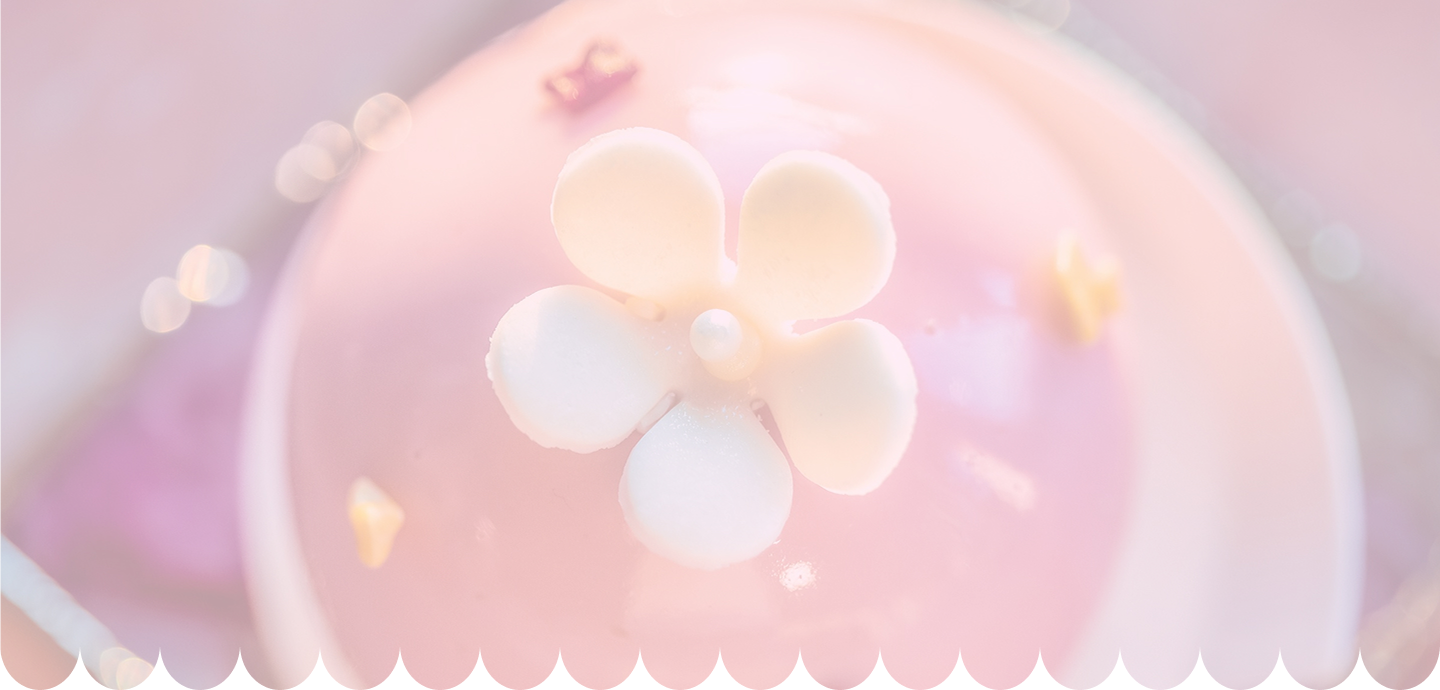
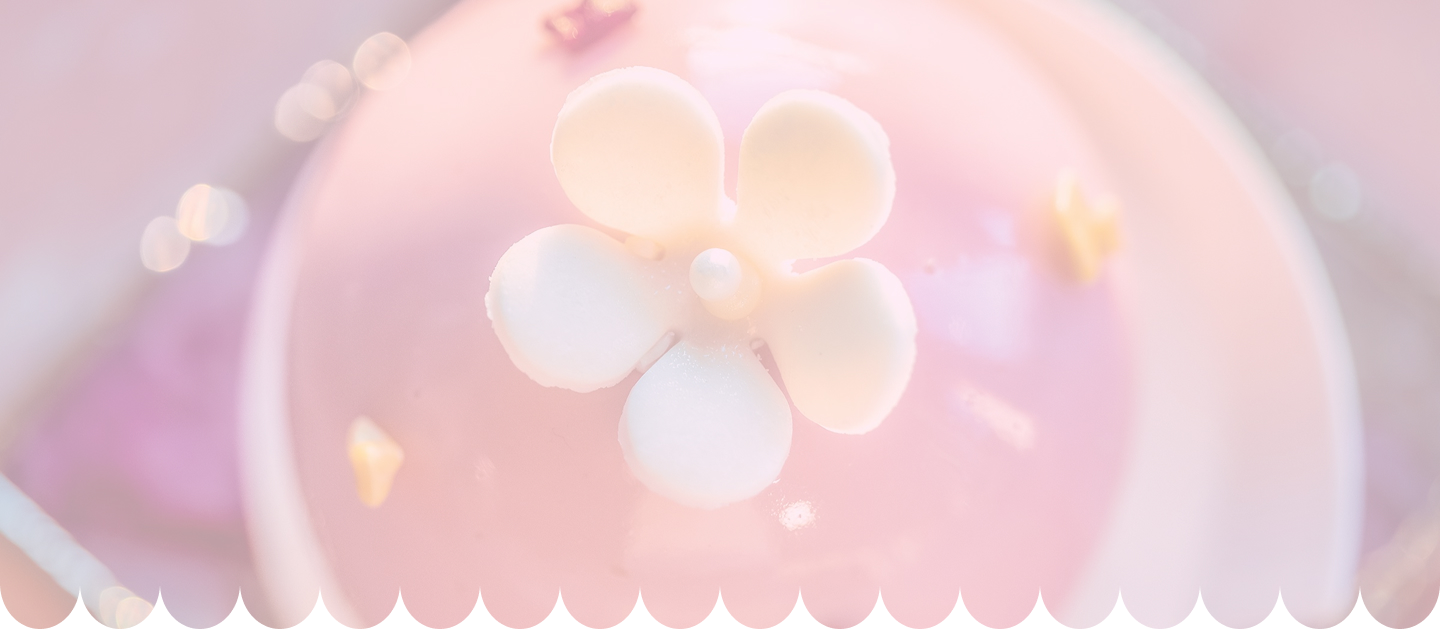
fixed hero

diff --git a/src/styles/modules/_hero.css b/src/styles/modules/_hero.css
@@ -1,4 +1,4 @@
-.l-hero {
+.hero {
   width: 100%;
 }
 
@@ -15,15 +15,33 @@
 
 .hero-logo {
   position: absolute;
-  width: 35%;
+  width: 25%;
   top: 45%;
   left: 50%;
   transform: translate(-50%, -50%);
 }
 
-.hero-btn-reservation {
-  position: absolute;
-  top: 76%;
-  left: 50%;
-  transform: translate(-50%, -50%);
+@media (max-width: 1024px) {
+  .hero {
+    width: 100%;
+    overflow: hidden;
+  }
+
+  .hero-content {
+    position: relative;
+    height: 85vh;
+  }
+
+  .hero-img {
+    width: 100%;
+    height: 100%;
+    object-fit: cover;
+    object-position: center;
+  }
+
+  .hero-logo {
+    width: 45%;
+    top: 40%;
+    max-width: 300px;
+  }
 }

diff --git a/src/index.html b/src/index.html
@@ -55,7 +55,8 @@
     </header>
 
     <main>
-      <div class="l-hero">
+      <!-- Hero section -->
+      <div class="l-hero hero">
         <div class="hero-content">
           <img
             class="hero-img"
@@ -67,7 +68,7 @@
             src="img/logo-3-lines.svg"
             alt="The Whimsy Bakery logo"
           />
-          <a class="hero-btn-reservation" href="#">Réserver une table</a>
+          <a class="btn-reservation" href="#">Réserver une table</a>
         </div>
       </div>
     </main>

diff --git a/src/styles/modules/_btn.css b/src/styles/modules/_btn.css
@@ -1,0 +1,22 @@
+.btn-reservation {
+  position: absolute;
+  top: 80%;
+  left: 50%;
+  transform: translate(-50%, -50%);
+  display: inline-flex;
+  padding: 16px 24px;
+  justify-content: center;
+  align-items: center;
+  border-radius: var(--radius, 32px);
+  background: var(--accent, #d20062);
+  color: var(--background, #fcf5eb);
+  width: 35%;
+}
+
+@media (max-width: 1024px) {
+  .btn-reservation {
+    top: 75%;
+    width: 70%;
+    max-width: 400px;
+  }
+}

diff --git a/src/styles/main.css b/src/styles/main.css
@@ -2,3 +2,4 @@
 @import "_layout.css";
 @import "_header.css";
 @import "modules/_hero.css";
+@import "modules/_btn.css";
